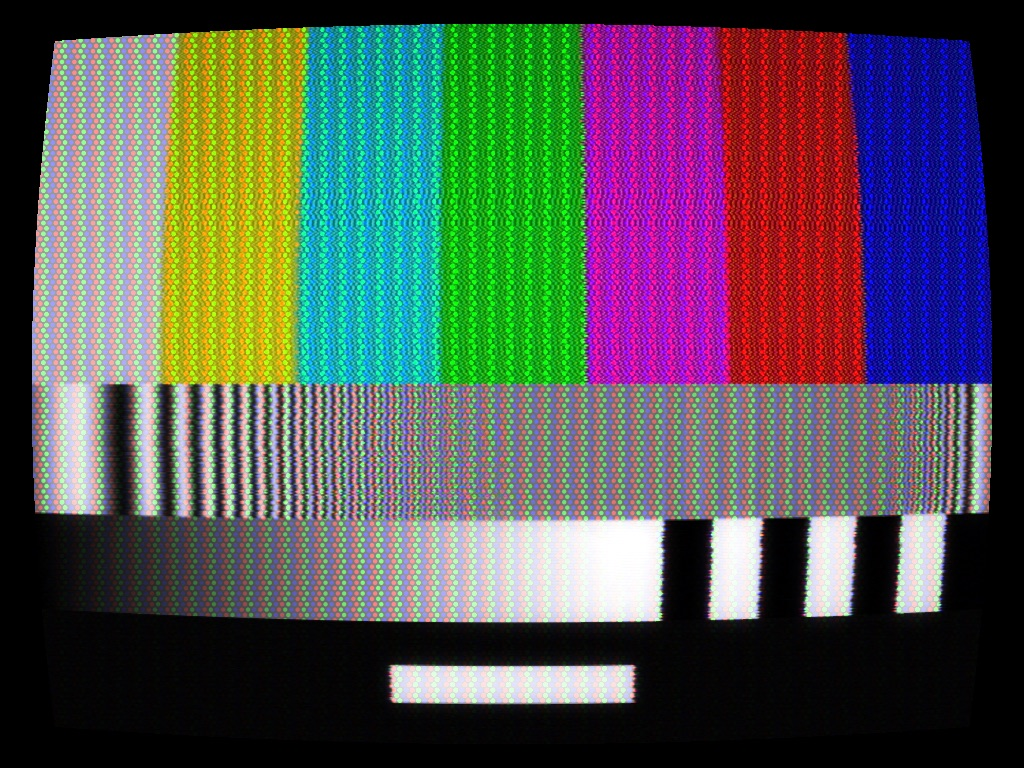
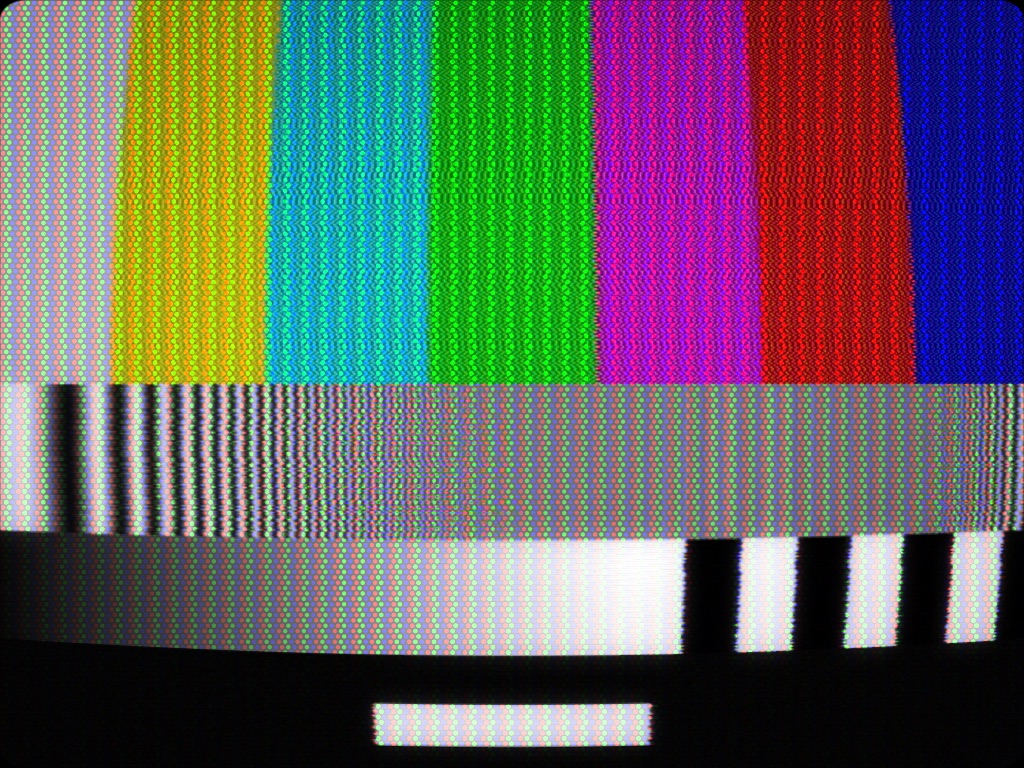
Overscan the raster, and test that no control is silently dead
tools/sweep.py renders every parameter at both ends of its range and fails
if any of them made no difference. This is the only check that can catch a
uniform name which does not match between the C++ and the GLSL, because that
failure is completely silent -- glGetUniformLocation returns -1, glUniform on
-1 is a documented no-op, and everything still compiles, links, loads and
renders.

It flagged two on its first run. Scanlines was a test artefact: the sweep was
rendering at 480x360, where a 486-line raster is 0.74 output pixels per line
and the anti-aliasing correctly gives up. Corner Radius was real.

Corner Radius did nothing at any useful curvature because the barrel
distortion had already blacked out the corners it cuts. The picture's own
corners were being pulled inside the glass with black beyond them, which is
the one thing a correctly set-up television never does -- real sets scan a
raster deliberately larger than their own tube face so the picture reaches
the bezel on all four sides and the blanking edges hide behind it. The tube
pass now divides the curvature through by its expansion at the corner, which
is exactly that overscan. The shape at the edge of the screen is now the
shape of the tube instead of an artefact of the distortion.

All 33 parameters pass. README images regenerated.

diff --git a/tools/sweep.py b/tools/sweep.py
@@ -1,0 +1,93 @@
+"""Every parameter must actually change the picture.
+
+A uniform name that does not match between the C++ and the GLSL is silently
+ignored: glGetUniformLocation returns -1, glUniform on -1 is a documented no-op,
+and nothing in the build says a word. A control can therefore be completely dead
+while everything compiles, links, loads and renders. Nothing else in this repo
+catches that.
+
+So: render each parameter at both ends of its range against a baseline where
+every stage is switched on, and report any that made no difference.
+
+    python3 tools/sweep.py
+
+Run it after adding a parameter, renaming a uniform, or moving anything between
+the C++ and the GLSL. Exit code 1 means something is dead.
+
+Two things that will fool you, both of which have already happened here:
+
+  * **Render big enough.** The scanline and mask anti-aliasing fade out on
+    fwidth. At 480x360 a 486-line raster is 0.74 output pixels per scan line,
+    which is genuinely unresolvable, so Scanlines correctly does nothing and
+    looks broken. 1280x960 gives 1.98 and is safely inside the working range.
+  * **Watch for controls masked by other controls.** Corner Radius once measured
+    dead because the curvature crop had already blacked out the corners it cuts.
+    That was a real design flaw rather than a test artefact, and it was fixed by
+    overscanning. If something reads dead, work out what is hiding it before
+    assuming the test is wrong.
+"""
+import subprocess, zlib, struct, sys, os, tempfile
+
+SC = tempfile.mkdtemp(prefix="ocsweep")
+
+# A baseline with every stage active, so nothing is dead merely because the
+# thing it modifies is switched off.
+BASE = {
+    "Ghosting": 0.5, "Mask Pattern": 1, "Mask Strength": 0.7, "Scanlines": 0.6,
+    "Halation": 0.4, "Persistence": 0.3, "Noise": 0.15, "Dropouts": 0.3,
+    "Interference": 0.3, "Vertical Hold": 0.15, "Tracking": 0.3, "Hum": 0.3,
+    "Head Switch": 0.3, "Jitter": 0.2, "Curvature": 0.3, "Vignette": 0.3,
+    "Corner Radius": 0.2,
+}
+
+def render(path, overrides):
+    args = ["./build/octest", "--out", path, "--width", "1280", "--height", "960", "--frames", "5"]
+    merged = dict(BASE); merged.update(overrides)
+    for k, v in merged.items():
+        args += ["--set", f"{k}={v}"]
+    r = subprocess.run(args, capture_output=True, text=True)
+    if r.returncode != 0:
+        print("render failed:", r.stdout, r.stderr); sys.exit(1)
+    return open(path, "rb").read()
+
+def pixels(png):
+    i = 8; idat = b""; w = h = 0
+    while i < len(png):
+        ln = struct.unpack(">I", png[i:i+4])[0]; t = png[i+4:i+8]; d = png[i+8:i+8+ln]
+        if t == b"IHDR": w, h = struct.unpack(">II", d[:8])
+        if t == b"IDAT": idat += d
+        i += 12 + ln
+    raw = zlib.decompress(idat); stride = w*4
+    return b"".join(raw[y*(stride+1)+1:(y+1)*(stride+1)] for y in range(h))
+
+def diff(a, b):
+    pa, pb = pixels(a), pixels(b)
+    n = len(pa); changed = 0; total = 0
+    for i in range(0, n, 4):
+        d = max(abs(pa[i]-pb[i]), abs(pa[i+1]-pb[i+1]), abs(pa[i+2]-pb[i+2]))
+        if d > 2: changed += 1
+        total += d
+    return changed / (n/4) * 100, total / (n/4)
+
+names = subprocess.run(["./build/octest", "--list"], capture_output=True, text=True).stdout
+params = [' '.join(l.split()[1:-1]) for l in names.strip().splitlines()]
+
+# Options are discrete; sweep them across their real element range.
+DISCRETE = {"System": (0, 1), "Source": (0, 3), "Mask Pattern": (1, 4), "Interlace": (0, 1)}
+
+print(f"{'parameter':<20} {'pixels changed':>15} {'mean delta':>11}   verdict")
+dead = []
+for p in params:
+    lo, hi = DISCRETE.get(p, (0.0, 1.0))
+    a = render(f"{SC}/a.png", {p: lo})
+    b = render(f"{SC}/b.png", {p: hi})
+    pct, mean = diff(a, b)
+    ok = pct > 0.5
+    if not ok: dead.append(p)
+    print(f"{p:<20} {pct:14.2f}% {mean:11.3f}   {'ok' if ok else '*** NO EFFECT ***'}")
+
+print()
+if dead:
+    print("DEAD CONTROLS:", ", ".join(dead))
+    sys.exit(1)
+print(f"all {len(params)} parameters affect the output")

diff --git a/source/shaders/Tube.cpp b/source/shaders/Tube.cpp
@@ -163,7 +163,22 @@ void main()
 	//----------------------------------------------------------------------
 	// 2. Undo the curvature. The face bulges, so the sampling pinches.
 	//----------------------------------------------------------------------
-	vec2 curved = tube * ( 1.0 + Curvature * 0.5 * dot( tube, tube ) );
+	//
+	// Divided through by the expansion at the corner, which is overscan: a set
+	// deliberately scans a raster larger than its own tube face, so the picture
+	// reaches the bezel on all four sides and the blanking edges stay hidden
+	// behind it. It is not cosmetic here. Without it the distortion pulls the
+	// picture's own corners inside the glass and shows black beyond them -- the
+	// one thing a correctly set-up television never does -- and the shape you
+	// see at the edge of the screen becomes an artefact of the curvature
+	// instead of the shape of the tube, which leaves Corner Radius doing
+	// nothing at any useful curvature.
+	//
+	// The coupling to Curvature is real: more distortion means more overscan is
+	// needed to cover the same face. Zoom is separate and stays separate -- that
+	// moves the set relative to the viewer, and takes the tube with it.
+	float cornerExpansion = 1.0 + Curvature;//0.5 * dot( tube, tube ) at the corner is 1
+	vec2 curved = tube * ( 1.0 + Curvature * 0.5 * dot( tube, tube ) ) / cornerExpansion;
 	vec2 signalUV = curved * 0.5 + 0.5;
 
 	//----------------------------------------------------------------------

diff --git a/AGENTS.md b/AGENTS.md
@@ -169,7 +169,29 @@ What the default test card is for, band by band:
 A photograph would hide every one of those. When changing the signal maths, test
 against this, not against footage.
 
-Two checks worth re-running after any change to the decoder:
+### A dead control is invisible to the compiler
+
+`tools/sweep.py` renders every parameter at both ends of its range and fails if
+any of them made no difference to the picture.
+
+```bash
+python3 tools/sweep.py
+```
+
+**Run it after adding a parameter, renaming a uniform, or moving anything between
+the C++ and the GLSL.** A uniform name that does not match is silently ignored —
+`glGetUniformLocation` returns -1 and `glUniform` on -1 is a documented no-op —
+so a control can be completely dead while everything compiles, links, loads and
+renders. Nothing else here catches that.
+
+It found two suspects on its first run; both were instructive rather than typos.
+Scanlines read dead because the sweep was rendering at 480×360, where 486 lines
+is 0.74 output pixels each and the anti-aliasing correctly gives up. Corner
+Radius read dead because the curvature crop had already blacked out the corners
+it cuts — which was a real design flaw, and the reason the tube pass now
+overscans.
+
+### Checks worth re-running after any change to the decoder
 
 ```bash
 # Level must survive the round trip. Expect ~0.502 in and out.

diff --git a/README.md b/README.md
@@ -171,6 +171,10 @@ Verified through the offline harness on an M4 Max:
 - **The PAL delay line works.** Under a 16.8° decoder reference error, NTSC hue
   shifts by 6.5–26° across the bars while PAL holds hue at 0.0° and loses ~8%
   saturation instead — which is the trade PAL exists to make.
+- **All 33 controls demonstrably do something.** `tools/sweep.py` renders every
+  parameter at both ends of its range and fails if any made no difference — the
+  only way to catch a uniform name that does not match between the C++ and the
+  GLSL, since that fails silently rather than at build time.
 - **Cost is 0.34 ms/frame at 1080p and 0.83 ms at 4K.** The expensive filtering
   runs at the SD raster, so it barely scales with composition size. Both figures
   are from one machine, not from CI.
